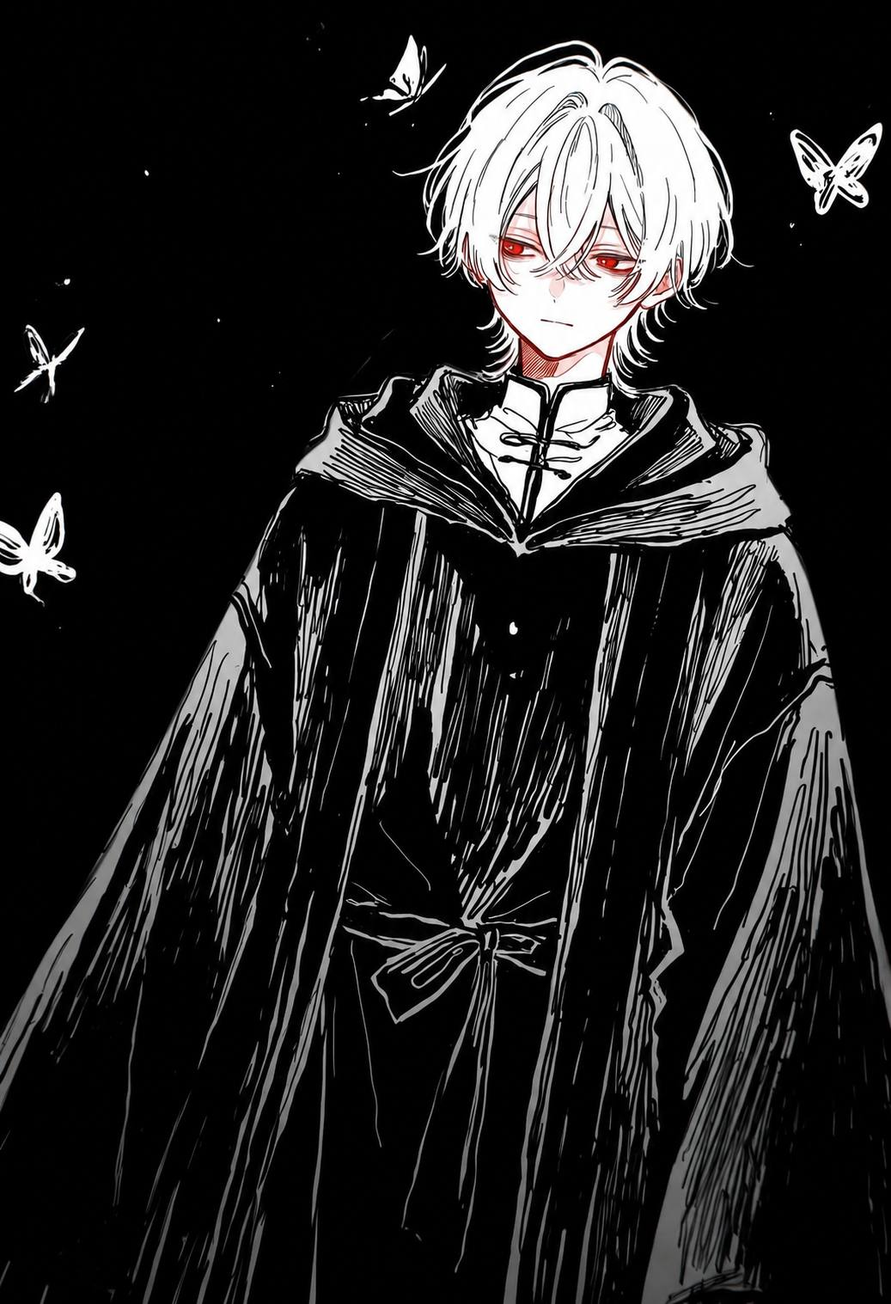
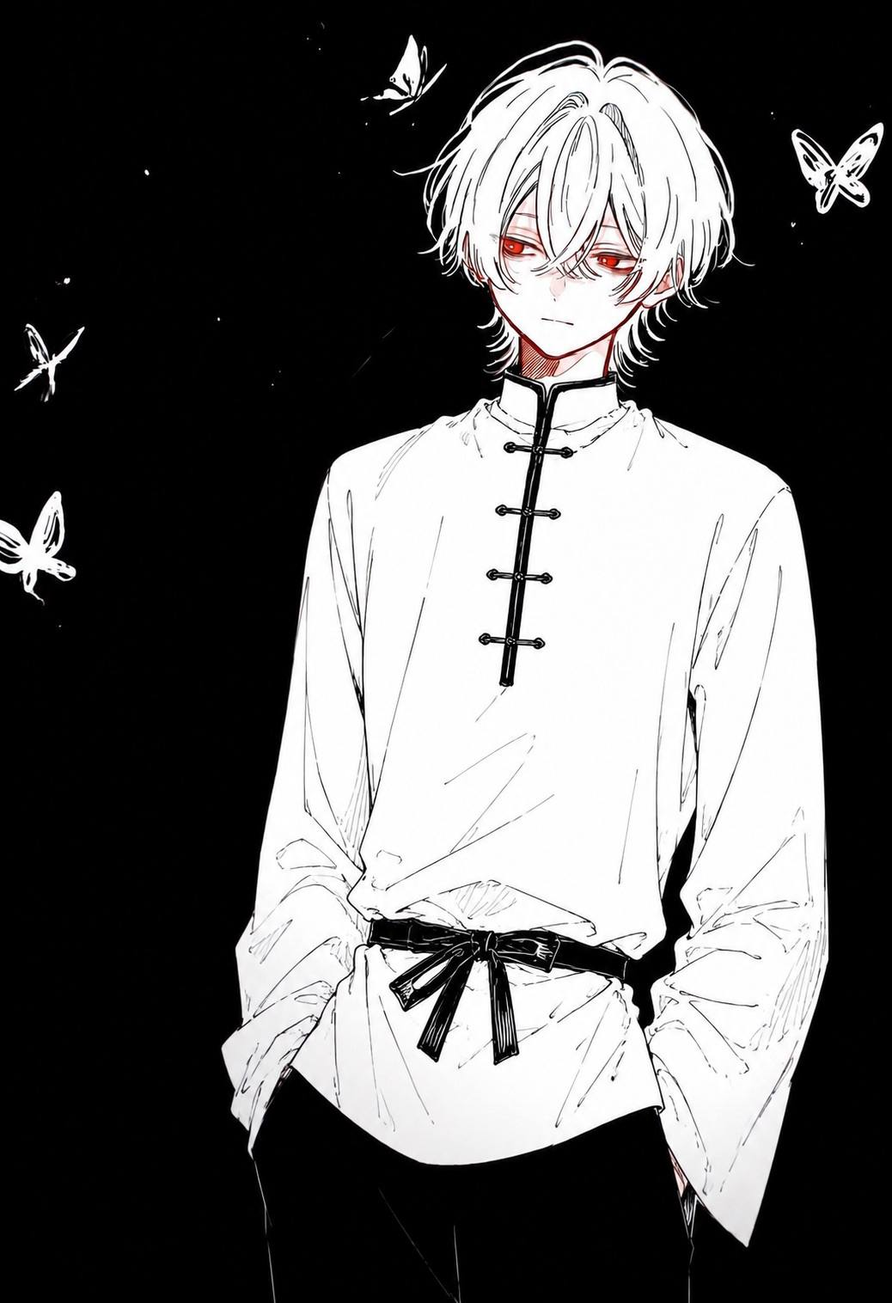
GlobalUp

diff --git a/src/components/crt/SinsWheel.tsx b/src/components/crt/SinsWheel.tsx
@@ -16,6 +16,8 @@ type Sin = {
   y: number;
   available: boolean;
   outcome: string;
+  outcomeImage: string;
+  outcomeGlyph: string;
 };
 
 const SINS: Sin[] = [
@@ -27,6 +29,8 @@ const SINS: Sin[] = [
     y: 15,
     available: false,
     outcome: "",
+    outcomeImage: "",
+    outcomeGlyph: "🦁",
   },
   {
     id: "greed",
@@ -36,6 +40,8 @@ const SINS: Sin[] = [
     y: 27,
     available: false,
     outcome: "",
+    outcomeImage: "",
+    outcomeGlyph: "💰",
   },
   {
     id: "lust",
@@ -43,8 +49,11 @@ const SINS: Sin[] = [
     emoji: "",
     x: 83,
     y: 57,
-    available: false,
-    outcome: "",
+    available: true,
+    outcome:
+      "Бруно отвернулся от всего, что когда-то определяло его суть — от магии, что текла по его жилам густее крови, от знаний, накопленных за шесть веков, от дружбы с Тургонвэ Аулендил Оромэар Таурингвэнтилем, чьё имя он больше не помнил. Всё это — пепел. Всё это — прах. Кали предложила ему нечто иное: вечный праздник плоти, утопию наслаждения, где каждый вздох — стон, каждое прикосновение — пожар, а каждое мгновенье растворяется в горячем, влажном забытьи.\n\nОн согласился — не от слабости, нет. От жадности. От того голода, что просыпается в мужчине, познавшем, что Кали может дать ему всё: власть над сном, власть над болью, власть над чужими телами и собственным разумом. Она шептала ему в уши, что мир — это пиршественный стол, а он — единственный достойный гость. И он поверил.\n\nЕго куклы — Чинчиро и Динамо — больше не сражаются. Они прислуживают: подносят вино, зажигают благовония, расстилают шёлковые покрывала. Его разум, когда-то способный управлять армиями, теперь пирует лишь образами: изгиб её спины, влажный блеск её глаз, вкус её губ, шёпот, от которого содрогается позвоночник. Кали — его богиня, его наложница, его тюрьма и его рай одновременно.\n\nОн позабыл своих друзей. Реми — друид, что когда-то делил с ним хлеб и дорогу — стал для него никем. Человек, которого он знал сотни лет, превратился в тень, в ничто, в пустое имя, не вызывающее ни тёплого воспоминания, ни укола совести. Все, кого он любил, все, кому клялся в верности — стёрты, выжжены, заменены единым образом: Кали. Её прикосновение, её голос, её дыхание на его коже. Бруно — величайший чародей Эларии — превратился в существо, живущее лишь плотью, лишь удовольствием, лишь этой бесконечной, ненасытной, всепоглощающей похотью, что сжигает его изнутри ярче любого пламени и слаще любого вина.\n\nА Кали улыбается. Она всегда улыбается. Она получила то, что хотела — не его разум, нет. Его желание. Его голод. Его вечную, трепещущую, беспомощную жажду её. И он отдаст ей всё — мир, душу, вечность — лишь бы она не переставала шептать его имя.",
+    outcomeImage: "/heroes/sloth_outcome_lust.png",
+    outcomeGlyph: "💋",
   },
   {
     id: "envy",
@@ -54,6 +63,8 @@ const SINS: Sin[] = [
     y: 82,
     available: false,
     outcome: "",
+    outcomeImage: "",
+    outcomeGlyph: "🐍",
   },
   {
     id: "gluttony",
@@ -63,6 +74,8 @@ const SINS: Sin[] = [
     y: 83,
     available: false,
     outcome: "",
+    outcomeImage: "",
+    outcomeGlyph: "🍖",
   },
   {
     id: "wrath",
@@ -72,6 +85,8 @@ const SINS: Sin[] = [
     y: 58,
     available: false,
     outcome: "",
+    outcomeImage: "",
+    outcomeGlyph: "🔥",
   },
   {
     id: "sloth",
@@ -82,6 +97,8 @@ const SINS: Sin[] = [
     available: true,
     outcome:
       "Бруно после того как убил Амелию своими руками, впал в абсолютное уныние. То, что было когда-то разумом величайшего чародея Эларии, превратилось в серую, безмолвную пустоту. Он перестал стремиться хоть к чему-то — ни к магии, ни к свободе, ни к жизни. Его глаза остекленели, его руки безвольно лежали на коленях, а его разум, прежде способный управлять куклами с точностью хирурга, замер, как сломанные часы. Он был согласен на всё, что скажет ему Кали. Каждое её слово становилось для него законом, каждый её приказ — единственной нитью, связывающей его с реальностью. Она шептала ему, кого ненавидеть, кому доверять, что делать — и он слушал, не имея сил даже на сомнение. Его воля была раздавлена не магией, а собственным горем: тяжестью рук, что убили ту, что его разбудила. Кали ласково гладила его по голове и называла «послушным мальчиком». А он улыбался — пустой, мёртвой улыбкой человека, который больше не существует.",
+    outcomeImage: "/heroes/sloth_outcome.png",
+    outcomeGlyph: "💀",
   },
 ];
 
@@ -129,7 +146,7 @@ export function SinsWheel({ onClose }: SinsWheelProps) {
 
   return createPortal(
     <div
-      className="fixed inset-0 z-[9950] flex items-center justify-center p-4"
+      className="fixed inset-0 z-[9950] overflow-y-auto crt-scroll flex items-start justify-center p-4"
       style={{
         background: "rgba(0, 0, 0, 0.95)",
         backdropFilter: "blur(6px)",
@@ -137,7 +154,7 @@ export function SinsWheel({ onClose }: SinsWheelProps) {
       onClick={onClose}
     >
       <div
-        className="relative max-w-2xl w-full text-center"
+        className={`relative ${phase === "outcome" ? "max-w-4xl" : "max-w-2xl"} w-full text-center py-4`}
         onClick={(e) => e.stopPropagation()}
       >
         {/* Заголовок */}
@@ -215,24 +232,31 @@ export function SinsWheel({ onClose }: SinsWheelProps) {
 
         {phase === "outcome" && selectedSin && (
           <div
-            className="relative max-w-lg mx-auto fade-in"
+            className="relative max-w-4xl mx-auto fade-in"
             style={{ animation: "sinsOutcomeIn 0.6s cubic-bezier(0.16, 1, 0.3, 1) forwards" }}
           >
-            <div className="text-5xl glow-amber mb-4">💀</div>
+            <div className="text-4xl glow-amber mb-1">{selectedSin.outcomeGlyph}</div>
             <div className="text-[10px] text-dim tracking-widest mb-2">
               {`// ИСХОД: ${selectedSin.name} //`}
             </div>
-            <div className="panel clip-hud brackets p-6 text-left">
-              {/* Картинка исхода */}
-              <img
-                src="/heroes/sloth_outcome.png"
-                alt="Уныние"
-                className="w-full max-h-[300px] object-contain rounded mb-4"
-                style={{ filter: "drop-shadow(0 0 12px rgba(232, 161, 58, 0.3))" }}
-              />
-              <p className="text-[14px] leading-relaxed text-[var(--text)] italic">
-                {selectedSin.outcome}
-              </p>
+            <div className="panel clip-hud brackets p-4 flex flex-col md:flex-row gap-4 text-left">
+              {/* Левая колонка — текст */}
+              <div className="flex-1 min-w-0 order-2 md:order-1">
+                <p className="text-[12px] sm:text-[13px] leading-relaxed text-[var(--text)] italic whitespace-pre-line">
+                  {selectedSin.outcome}
+                </p>
+              </div>
+              {/* Правая колонка — картинка */}
+              {selectedSin.outcomeImage && (
+                <div className="md:w-[35%] shrink-0 order-1 md:order-2 flex items-start justify-center">
+                  <img
+                    src={selectedSin.outcomeImage}
+                    alt={selectedSin.name}
+                    className="w-full max-h-[150px] md:max-h-[250px] object-contain rounded"
+                    style={{ filter: "drop-shadow(0 0 10px rgba(232, 161, 58, 0.3))" }}
+                  />
+                </div>
+              )}
             </div>
             <button
               onClick={() => {
@@ -240,7 +264,7 @@ export function SinsWheel({ onClose }: SinsWheelProps) {
                 setSelectedSin(null);
                 sfx.blip();
               }}
-              className="btn-crt clip-hud-sm px-6 py-2 text-xs mt-6"
+              className="btn-crt clip-hud-sm px-6 py-2 text-xs mt-3"
             >
               ◂ НАЗАД К КОЛЕСУ
             </button>

diff --git a/prisma/seed.ts b/prisma/seed.ts
@@ -1307,11 +1307,29 @@ async function main() {
         category: 'Божественная Сущность · Запечатана',
         system: 'DND',
         description:
-          'На вид девушка, пыталась манипулировать Бруно и его мыслями, с помощью своей власти свела его с ума, и убила Амелию, после чего прокляла её тело. В будущем благодаря манипуляциям смогла убедить его открыть дверь в самое глубокое место сознания, и она начала убивать частички разума, и забирать полный контроль над его разумом и телом, но в какой-то момент пространство вздогнуло, и Бруно начал просыпатся от сна, неизвестное существо начало говорить ему: «Очнись! Это она убила Амелию! Она сделала так что бы ты видел в ней врага!». И Бруно прозрел, он понял кто настоящий враг, и попытался дать отпор, но явно сил ему не хватало к тому моменту. Но на материальном плане, Кукла под контролем Кали сражалась против Раудона, Мурасаки и Реми. Они дали хороший отпор, но разуму помочь не могли, но меч Кайма который был у Раудона начал пульсировать, и передать всю свою злость и ярость Раудону, тот начал становится всё сильнее и сильнее, но его тело быстро разрушалось, и тогда ударив по кукле он пробился в разум Бруно, и там все вместе они дали отпор Божественной сущности, меч вонзился в её тело и запечатала её в разуме, но на долго ли?',
+          'На вид девушка, пыталась манипулировать Бруно и его мыслями, с помощью своей власти свела его с ума, и убила Амелию, после чего прокляла её тело. В будущем благодаря манипуляциям смогла убедить его открыть дверь в самое глубокое место сознания, и она начала убивать частички разума, и забирать полный контроль над его разумом и телом.\n\n' +
+          melt('...но в какой-то момент пространство вздогнуло... ') +
+          'Лицимерие' +
+          melt(' ...её шёпот... ') +
+          melt('Бруно начал просыпаться от сна... ') +
+          'Двуличность' +
+          melt(' ...неизвестное существо начало говорить ему... ') +
+          melt('«Очнись! Это она убила Амелию!»... ') +
+          'Враг' +
+          melt(' ...она сделала так, чтобы ты видел в ней... ') +
+          melt('Бруно прозрел, он понял кто настоящий... ') +
+          'Никчёмность' +
+          melt(' ...попытался дать отпор, но сил не хватало... ') +
+          'Смерть' +
+          melt(' ...кукла под контролем Кали сражалась против... ') +
+          melt('Раудона, Мурасаки и Реми... меч Кайма начал пульсировать... ') +
+          'Боль' +
+          melt(' ...меч вонзился в её тело и запечатал её в разуме... ') +
+          melt('но на долго ли?...'),
         sigil: '🔮',
         mapX: 300,
         mapY: 320,
-        isCorrupted: false,
+        isCorrupted: true,
         imageUrl: img('heroes/kali.png'),
         friendship: 2,
         folder: 'SECONDARY_HEROES',
@@ -1629,6 +1647,53 @@ async function main() {
         isCorrupted: true,
         folder: 'SECRETS',
         sortOrder: 7,
+      },
+      // ─── Гений Холода (DND) — Великий Джинн, Повелитель льда ───
+      // Часть плана воды, что замёрзла давно из-за катаклизма.
+      // Описание искажено через melt() — тяжело читаемое.
+      {
+        title: 'Гений Холода',
+        category: 'Секрет · Джинн · Повелитель льда',
+        system: 'DND',
+        description:
+          melt('▓▒░ ГЕНИЙ ХОЛОДА ░▒▓ — ') +
+          melt('великий джинн... повелитель льда... ') +
+          melt('что правит некоторой частью плана воды... ') +
+          melt('которая замёрзла давно... ') +
+          melt('из-за катаклизма... ') +
+          melt('когда-то воды текли свободно... ') +
+          melt('но пришёл великий холод... ') +
+          melt('и всё застыло... ') +
+          melt('волны стали горами... ') +
+          melt('течения — трещинами... ') +
+          melt('а джинн... ') +
+          melt('остался... ') +
+          melt('хозяином вечной мерзлоты... ') +
+          '\n\n' +
+          melt('▓▒░ ВЛАСТЕЛИН ░▒▓\n\n') +
+          melt('его дворец — из вечного льда... ') +
+          melt('трон — из айсберга... ') +
+          melt('корона — из снежной бури... ') +
+          melt('слуги его — морозные духи... ') +
+          melt('стража его — ледяные големы... ') +
+          melt('слово его — закон... ') +
+          melt('взгляд его — замораживает... ') +
+          melt('дыхание его — метель... ') +
+          melt('шаг его — трещина во льду... ') +
+          melt('архив не знает... ') +
+          melt('спит ли он... ') +
+          melt('или ждёт... ') +
+          melt('когда лёд растает... ') +
+          melt('и воды хлынут обратно... ') +
+          melt('затопив мир...'),
+        sigil: '🧊',
+        mapX: 980,
+        mapY: 540,
+        isLocked: true,
+        isCorrupted: true,
+        imageUrl: img('heroes/ice_genie.png'),
+        folder: 'SECRETS',
+        sortOrder: 8,
       },
     ],
   })

diff --git a/src/components/crt/RecordModal.tsx b/src/components/crt/RecordModal.tsx
@@ -57,6 +57,7 @@ export function RecordModal({ record, onClose }: RecordModalProps) {
   const [ritualActive, setRitualActive] = useState(false);
   const [martinSecretShown, setMartinSecretShown] = useState(false);
   const [sinsWheelOpen, setSinsWheelOpen] = useState(false);
+  const [memoryProbeOpen, setMemoryProbeOpen] = useState(false);
   const readRef = useRef(false);
   const ritualRef = useRef<ReturnType<typeof setInterval> | null>(null);
   const konamiSeq = useRef<string[]>([]);
@@ -325,6 +326,14 @@ export function RecordModal({ record, onClose }: RecordModalProps) {
                     return <p key={i} className="reflection-text text-[13px]">{line || "\u00A0"}</p>;
                   })}
                 </div>
+              ) : isCursed ? (
+                // Для Кали — рендерим сырое описание без censorText,
+                // чтобы 6 читаемых слов (Лицимерие, Двуличность, Враг,
+                // Никчёмность, Смерть, Боль) всегда отображались.
+                <p
+                  className="text-[14px] leading-relaxed text-[var(--text)]"
+                  dangerouslySetInnerHTML={{ __html: record.description.replace(/\n/g, "<br/>") }}
+                />
               ) : (
                 <p
                   className={`text-[14px] leading-relaxed ${isEntity ? "text-[var(--cyan)]" : "text-[var(--text)]"}`}
@@ -418,12 +427,68 @@ export function RecordModal({ record, onClose }: RecordModalProps) {
               </div>
             )}
 
+            {/* Кнопка «Проникнуть в память» — только для Кали */}
+            {record.name === "Кали" && (
+              <button
+                onClick={() => {
+                  sfx.whisper();
+                  setMemoryProbeOpen(true);
+                }}
+                className="btn-crt clip-hud-sm px-4 py-2 text-xs mt-3 w-full"
+                style={{
+                  borderColor: "var(--violet-dim)",
+                  color: "var(--violet)",
+                  background: "rgba(167, 139, 250, 0.08)",
+                }}
+              >
+                🧠 ПРОНИКНУТЬ В ПАМЯТЬ
+              </button>
+            )}
+
             <style>{`
               @keyframes primeBtnSweep {
                 0% { transform: translateX(-100%); }
                 100% { transform: translateX(100%); }
               }
             `}</style>
+
+            {/* Модалка «Проникнуть в память» — Бруно отказался */}
+            {memoryProbeOpen && (
+              <div
+                className="fixed inset-0 z-[9700] flex items-center justify-center p-4"
+                style={{ background: "rgba(2, 0, 2, 0.9)", backdropFilter: "blur(4px)" }}
+                onClick={() => setMemoryProbeOpen(false)}
+                role="dialog"
+                aria-modal="true"
+                aria-label="Проникновение в память"
+              >
+                <div
+                  className="panel clip-hud brackets w-full max-w-md p-8 text-center fade-in"
+                  style={{
+                    borderColor: "var(--violet-dim)",
+                    boxShadow: "0 0 40px rgba(167, 139, 250, 0.3)",
+                    animation: "modalIn 0.3s ease-out forwards",
+                  }}
+                  onClick={(e) => e.stopPropagation()}
+                >
+                  <div className="text-5xl mb-4 pulse-slow">🧠</div>
+                  <div className="font-medieval text-lg glow-violet tracking-wider mb-3 glitch" data-text="ОТКАЗАНО">
+                    ОТКАЗАНО
+                  </div>
+                  <div className="text-[14px] text-[var(--text)] leading-relaxed mb-6">
+                    Бруно отказался от этого действия...
+                    <br />
+                    <span className="text-dim italic">Пока что.</span>
+                  </div>
+                  <button
+                    onClick={() => setMemoryProbeOpen(false)}
+                    className="btn-crt clip-hud-sm px-6 py-2 text-xs"
+                  >
+                    ◂ ЗАКРЫТЬ
+                  </button>
+                </div>
+              </div>
+            )}
 
             <div className="flex items-center gap-2 mt-5 flex-wrap">
               {isSealed ? (

diff --git a/src/components/crt/RecordCard.tsx b/src/components/crt/RecordCard.tsx
@@ -80,7 +80,7 @@ export function RecordCard({ record, horizontal = false }: RecordCardProps) {
     : false;
   const secretRevealed = revealedSecrets.includes(record.id);
   const riddleLocked =
-    (record.name === "Мартин" || record.name === "Мёртвый План" || record.name === "Четвёртый" || record.name === "Разум Бруно" || record.name === "Джейтал" || record.name === "Тартуччио" || record.name === "Неизвестная личность" || record.name === "Безымянная" || record.name === "Надежда" || record.name === "Баал") &&
+    (record.name === "Мартин" || record.name === "Мёртвый План" || record.name === "Четвёртый" || record.name === "Разум Бруно" || record.name === "Джейтал" || record.name === "Тартуччио" || record.name === "Неизвестная личность" || record.name === "Безымянная" || record.name === "Надежда" || record.name === "Баал" || record.name === "Гений Холода") &&
     !solvedRiddles.includes(record.name);
   // Для «Надежда» — после решения загадки и видео, досье открывается без ритуала
   const hopeAutoUnlock = record.name === "Надежда";
@@ -314,6 +314,10 @@ export function RecordCard({ record, horizontal = false }: RecordCardProps) {
               setHopeVideo(true);
             } else if (record.name === "Баал") {
               // Для «Баал» — авто-unlock без ритуала, досье с искажённым описанием
+              unlockRecord(record.id);
+              setModalOpen(true);
+            } else if (record.name === "Гений Холода") {
+              // Для «Гений Холода» — авто-unlock без ритуала
               unlockRecord(record.id);
               setModalOpen(true);
             } else {

diff --git a/src/components/crt/RiddleGate.tsx b/src/components/crt/RiddleGate.tsx
@@ -184,6 +184,23 @@ const RIDDLES: Record<string, {
     ],
     hint: "// назови грех, что пожирает душу //",
   },
+  "Гений Холода": {
+    sigil: "🧊",
+    title: "ГЕНИЙ ХОЛОДА",
+    subtitle: "// джинн · повелитель льда · владыка мерзлоты //",
+    riddle: [
+      "Я прозрачен, как стекло, но бью больнее стали,",
+      "Я танцую на ветвях, когда осень увядает,",
+      "Я запираю реки в цепи тишины,",
+      "И превращаю слово в крик без вины.",
+      "В моём дыханье — смерть для всех живых,",
+      "В моём объятье — вечный, мёртвый стих.",
+      "Я — королевство, что не знает слов «тепло»,",
+      "Назовите меня — и я ваше лицо.",
+    ],
+    valid: ["лёд", "лёд.", "лёд,", "лед", "лед.", "лед,", "льдина", "льдина.", "льдина,"],
+    hint: "// назови то, что замораживает всё живое //",
+  },
 };
 
 export function RiddleGate({ recordName, onSolved, onCancel }: RiddleGateProps) {
